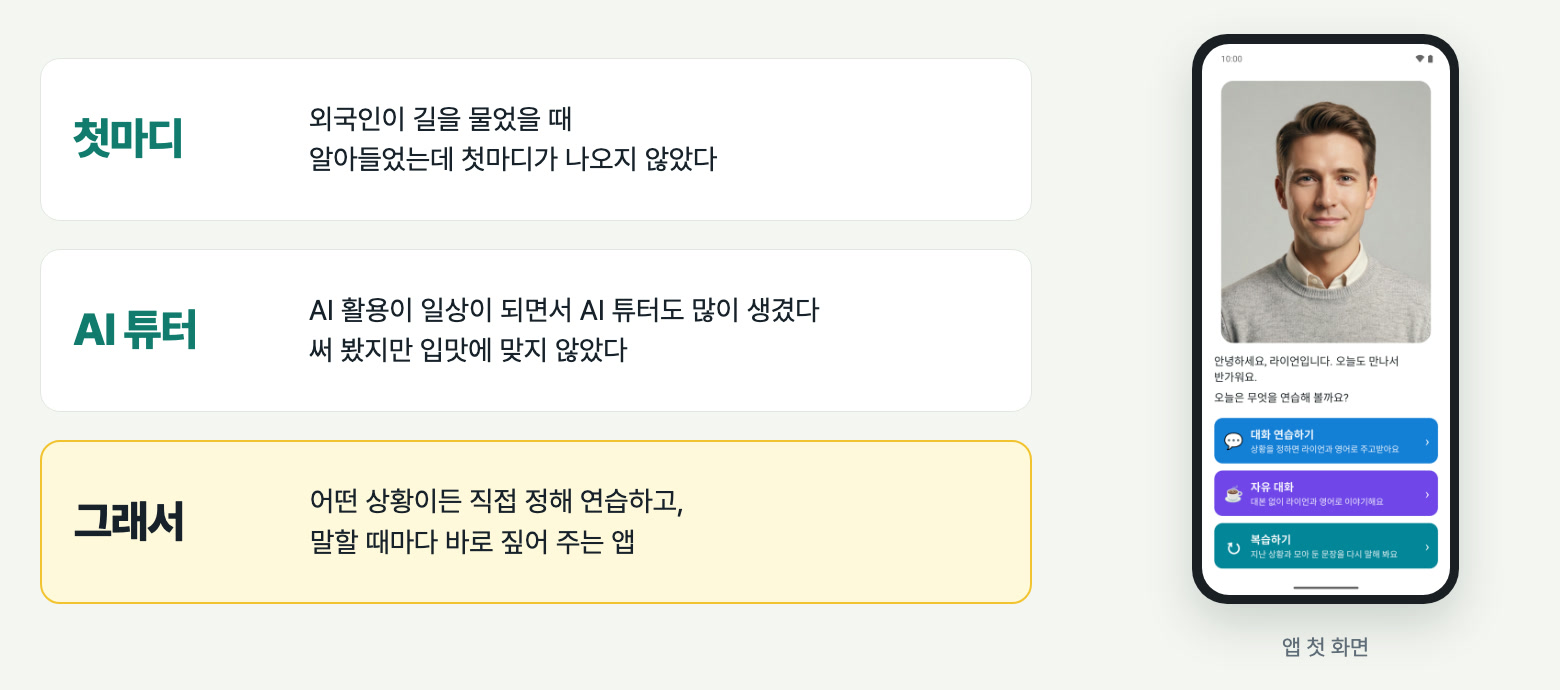
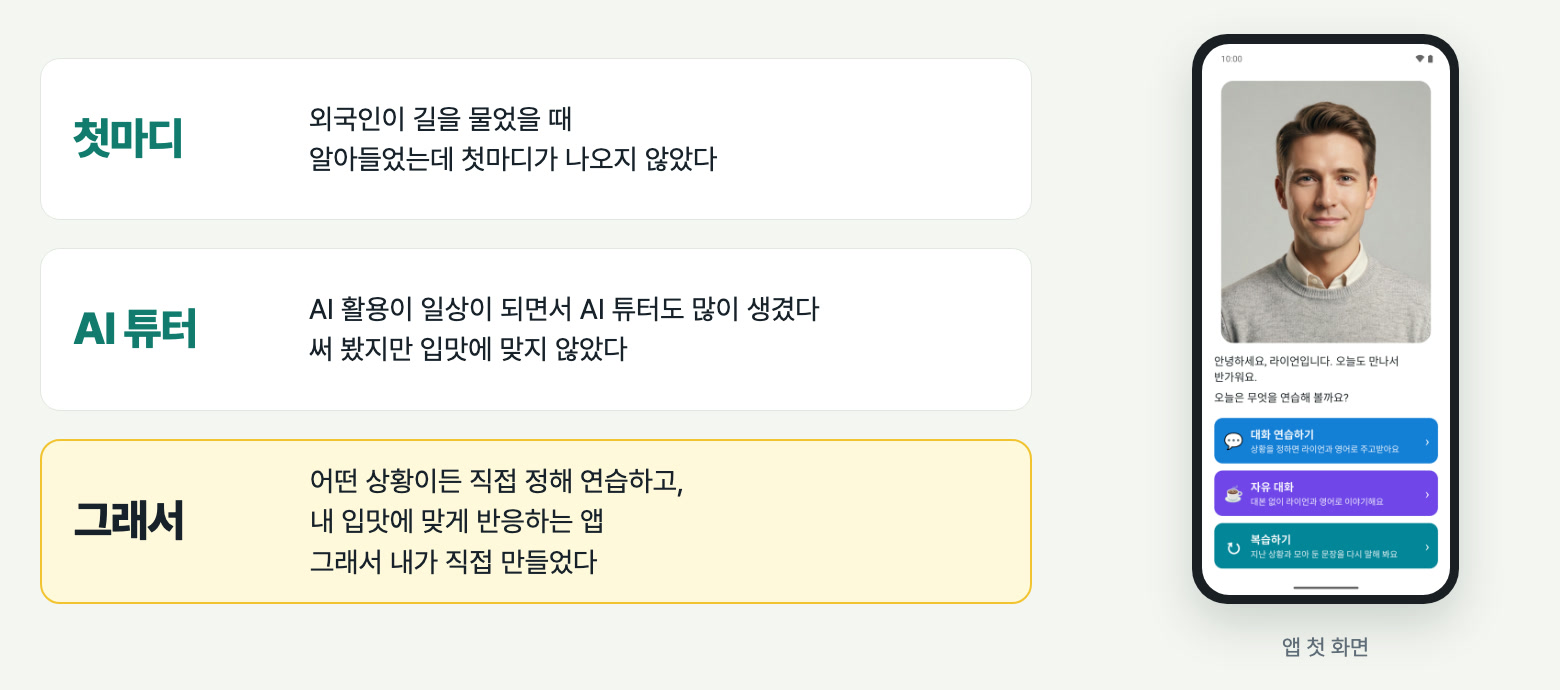
fix(content): say the Jake English app was built to fit my own taste
Pointing out mistakes each time you speak is something other AI tutors
do as well, so the why chapter no longer offers it as the difference.
It now says an app that responds to my taste was needed, so I built it
myself, and the chapter 1 slide gains the same closing line.

diff --git a/content/site/jake-english.md b/content/site/jake-english.md
@@ -17,7 +17,7 @@ panels:
   - caption: 대본 없이 라이언과 영어로 이야기합니다. 말이 막히면 소희가 라이언이 무엇을 묻는지 알려 주고, 답할 힌트를 줍니다. 끝나면 고칠 곳을 하나씩 돌아봅니다.
 chapters:
   - title: 왜 만들었나
-    body: 외국인이 길을 물었을 때 말은 알아들었는데 첫마디가 나오지 않았습니다. 요즘 K팝과 K뷰티처럼 한국이 여러 분야에서 주목받으면서 외국인 관광객이 부쩍 늘어, 일상에서 영어로 대화하는 연습을 다시 하고 싶었습니다. AI 활용이 일상이 되면서 AI 튜터도 많이 생겼지만, 써 보니 제 입맛에 맞지 않았습니다. 그래서 어떤 상황이든 직접 정해 대화를 연습하고, 말할 때마다 바로 짚어 주는 앱을 만들었습니다.
+    body: 외국인이 길을 물었을 때 말은 알아들었는데 첫마디가 나오지 않았습니다. 요즘 K팝과 K뷰티처럼 한국이 여러 분야에서 주목받으면서 외국인 관광객이 부쩍 늘어, 일상에서 영어로 대화하는 연습을 다시 하고 싶었습니다. AI 활용이 일상이 되면서 AI 튜터도 많이 생겼지만, 써 보니 제 입맛에 맞지 않았습니다. 그래서 어떤 상황이든 직접 정해 대화를 연습하고, 제 입맛에 맞게 반응하는 앱이 필요했습니다. 그래서 제가 직접 만들었습니다.
   - title: 어떻게 동작하나
     body: 폰 앱은 화면과 녹음, 재생만 합니다. 받아쓰기(whisper.cpp)와 목소리(Qwen3-TTS)는 제 Mac에서 만들고, Claude API에는 글만 보냅니다. 집 밖에서는 폰이 개인 망(Tailscale)으로 Mac에 붙습니다.
   - title: AI와 일한 방식
@@ -39,7 +39,7 @@ chapters:
   그 가운데 pr-review 스킬의 리뷰 코멘트가 달린 PR이 58개다. 저장소가 더 자라도 날짜 범위의 값이라 바꾸지 않는다.
 - 영상 아래 한 줄 끝의 화살표는 화면에서 붙인다(읽지 않는 장식).
 - 이야기 4컷은 Gemini 앱으로 그린 그림이다. 이야기 4컷 절 소제목 "이야기 4컷"과 story의 1, 2번 문구(설계의 W11, W12)는 추천안으로 정했고 사용자가 확인했다(2026-11-11). story의 3, 4번과 panels의 3번은 2026-11-11에 사용자가 직접 고쳐 썼다.
-- chapters의 1장 문단(설계의 W9-1)은 2026-11-11에 사용자가 화면을 보고 세 번 고쳐 썼다. 순서는 첫마디가 나오지 않은 일, 외국인 관광객이 늘어 일상 영어를 다시 연습하려 함, AI 활용이 일상이 되며 많이 생긴 AI 튜터가 입맛에 맞지 않음, 직접 만듦이다. AI 튜터를 무엇으로 만들었는지는 근거가 없어 시대는 AI 코딩이 아니라 AI 활용으로 쓴다. 1장 그림의 세 줄(첫마디, AI 튜터, 그래서)도 이 문단에 맞춰 바꿨다.
+- chapters의 1장 문단(설계의 W9-1)은 2026-11-11에 사용자가 화면을 보고 네 번 고쳐 썼다. 순서는 첫마디가 나오지 않은 일, 외국인 관광객이 늘어 일상 영어를 다시 연습하려 함, AI 활용이 일상이 되며 많이 생긴 AI 튜터가 입맛에 맞지 않음, 입맛에 맞게 반응하는 앱이 필요함, 직접 만듦이다. AI 튜터를 무엇으로 만들었는지는 근거가 없어 시대는 AI 코딩이 아니라 AI 활용으로 쓴다. 말할 때마다 바로 짚어 주는 것은 다른 AI 튜터도 하는 일이라 다른 점으로 내세우지 않고, 제 입맛에 맞게 반응하는 앱을 직접 만들었다는 것을 앞에 둔다. 1장 그림의 세 줄(첫마디, AI 튜터, 그래서)도 이 문단에 맞춰 바꿨다.
 - 연습하는 방법 절의 소제목 연습하는 방법과 panels의 네 칸 문구는 앱 코드에서 확인한 사실로 정한 추천안이다(2026-11-11). 번호와 연습 흐름이라는 순서는 번호 순서가 라이언이 늘 먼저 묻는 흐름처럼 읽혀서 뺐다.
 - 그림은 src/lib/jake-english-images.ts에 있다. 이야기 4컷 칸, 연습하는 방법 칸, 장의 순서는 story, panels, chapters의 순서와 같다.
 -->
